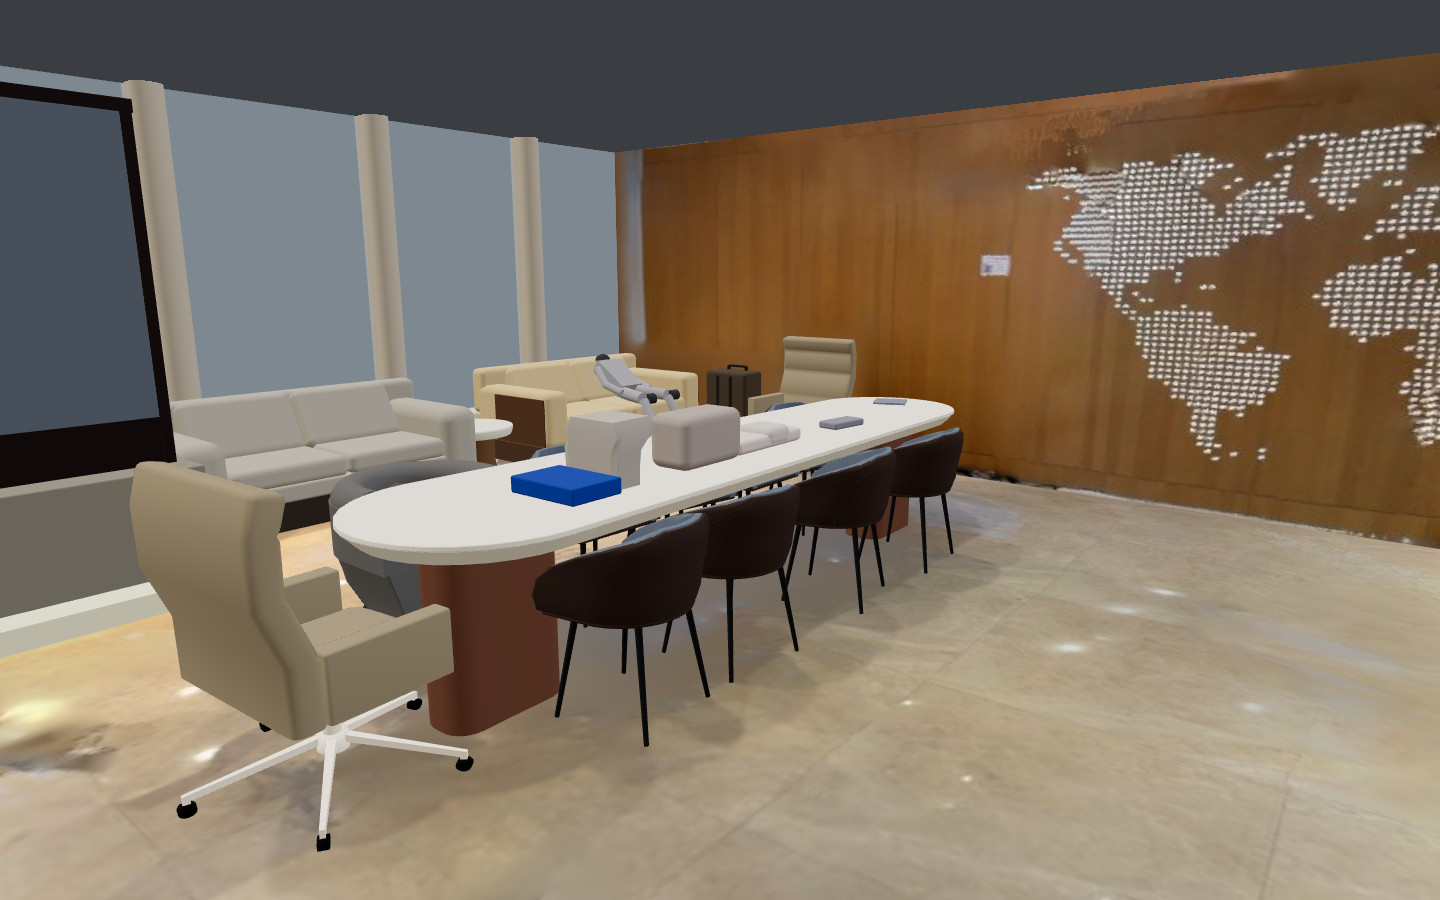
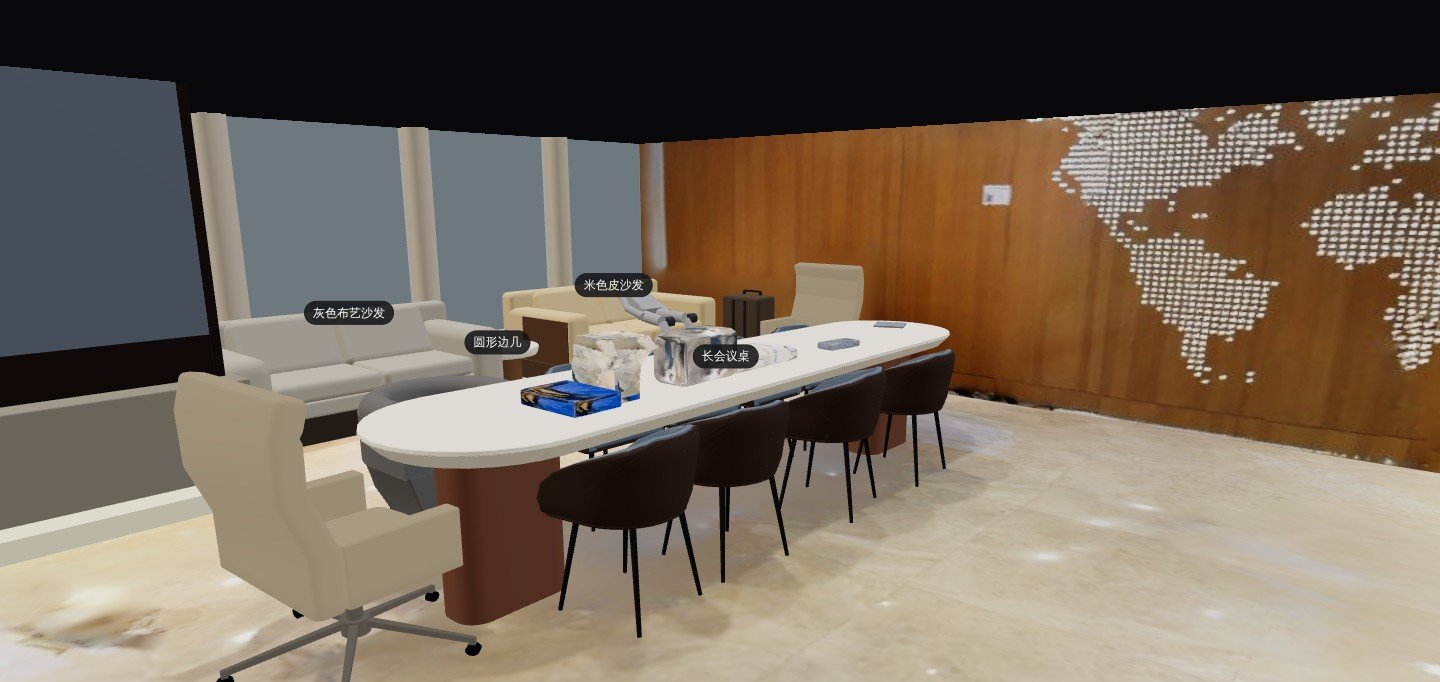
文档：前厅展示图换成本地全流程里网站优化视图的截图
原来的展示图是重建工作台渲染的：烘焙指令要到提交时才由处理服务执行，工作台里 13 个烘焙件都是后备纯色
（LED 大屏是一块蓝、前台是白板），和网站上看到的不一样。换成本地全流程里网站"优化"视图的截图（去掉标题栏
和底部控件），入口那张改拍 LED 大屏墙；进度里"10 个外部模型下载"改成实际的 8 个文件、10 个 glb。

Claude-Session: https://claude.ai/code/session_01FJGySrWzKJ4gCuSB2XMwW7

diff --git a/docs/PROGRESS.md b/docs/PROGRESS.md
@@ -97,7 +97,7 @@
 
 **做法**：重建工作台 `metaverse-recon`（[重建教程](tutorials/reconstruct-with-ai.md)）。`prepare` 用线上首次导入的同一条代码路径出基线，坐标与线上一致；每件物体"先搜后写"——先去模型库（只列 CC0、CC-BY）找现成模型摆进扫描对照，偏差比现有算法差或外形对不上才手写参数形状；入口、前台、会议区、休息区、东侧隔断与柜子、杂物六组并行，最后整房评审：合并冲突、按实测改正结构、补建六组漏掉的打印桌、打印机、门、袋子和两根柱子，修掉穿插和悬空。
 
-**本地全流程**（部署配置种子导入扫描 + 物件集，61 秒）：53 条记录、10 个外部模型下载核对并重新导出（2.44 MB）、18 处烘焙全部生成贴图（LED 大屏、EXIT 灯箱等）、52 件都有逐件偏差（中位数 2.29 厘米）、前台和桌子沙发的锚点都建了；网站优化视图的接口数据 2.85 MB、约 3 秒画出，画面底边常驻 CC-BY 署名。处理服务补了结构贴图的回退：物件集里本地基线算的结构贴图哈希与线上算出的不同时，按同编号、同部件路径换成线上算出的贴图，替换清单写进任务结果（`authored.textureFallback`）。
+**本地全流程**（部署配置种子导入扫描 + 物件集，61 秒）：53 条记录、外部模型的 8 个文件下载核对后重新导出成 10 个 glb（2.44 MB）、18 处烘焙全部生成贴图（LED 大屏、EXIT 灯箱等）、52 件都有逐件偏差（中位数 2.29 厘米）、前台和桌子沙发的锚点都建了；网站优化视图的接口数据 2.85 MB、约 3 秒画出，画面底边常驻 CC-BY 署名（下面是网站优化视图的截图）。处理服务补了结构贴图的回退：物件集里本地基线算的结构贴图哈希与线上算出的不同时，按同编号、同部件路径换成线上算出的贴图，替换清单写进任务结果（`authored.textureFallback`）。
 
 | 总览 | 前台 | 会议区 | 休息区 |
 |---|---|---|---|

diff --git a/infra/chrono-cd/demo/README.md b/infra/chrono-cd/demo/README.md
@@ -20,11 +20,12 @@
 | 六组产出直接合并、结构沿用算法（评审前） | 5.74 | 13.18 | 54.3% |
 | **本物件集**（结构改正 + 补漏建 + 穿插修正） | **4.31** | **8.71** | **67.0%** |
 
-展示图（重建工作台渲染，`showcase/`）：
+展示图（`showcase/`）：下面"本地全流程验证"里网站"优化"视图的截图（去掉了页面的标题栏和底部控件），烘焙贴图、
+灯光和网站上看到的一样：
 
 | | |
 |---|---|
-| ![总览](showcase/6-overview.jpg) | ![入口看向会议区](showcase/1-entry.jpg) |
+| ![总览](showcase/6-overview.jpg) | ![入口的 LED 大屏墙（烘焙贴图）](showcase/1-entry.jpg) |
 | ![前台](showcase/2-reception.jpg) | ![会议区](showcase/3-meeting.jpg) |
 | ![休息区](showcase/4-lounge.jpg) | |
 
